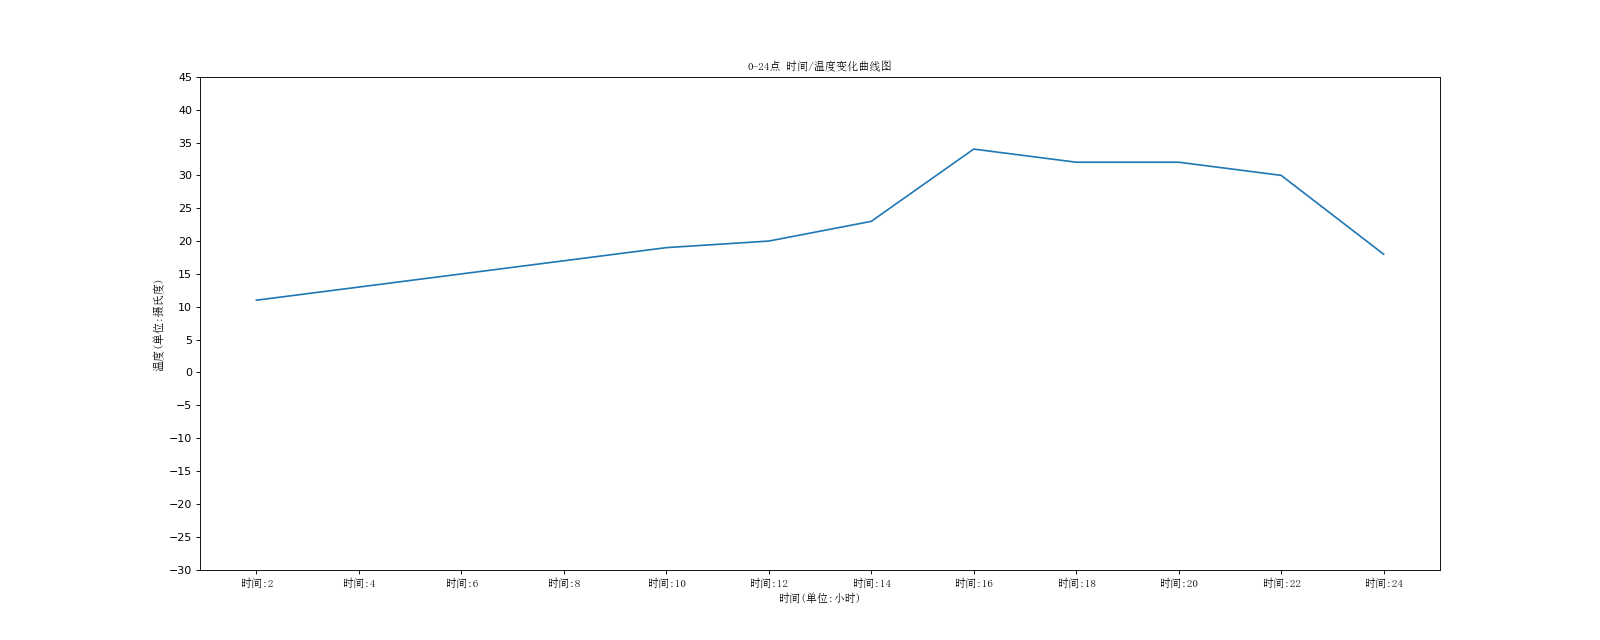
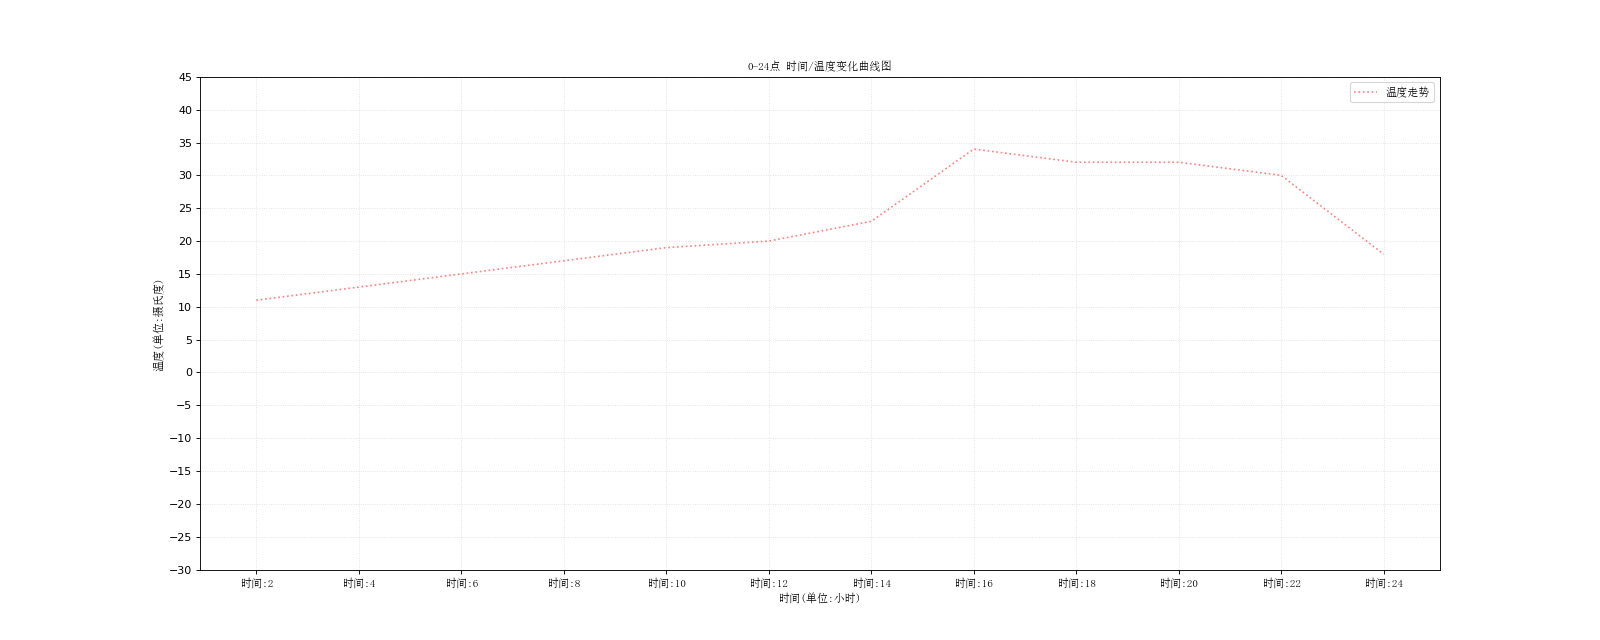
天气例子 散点图

diff --git a/mymatplotlib/MyMatplotlib.py b/mymatplotlib/MyMatplotlib.py
@@ -1,5 +1,5 @@
 from matplotlib import font_manager, pyplot as plt
-
+import numpy as np
 
 class MyMatplotlib:
     """
@@ -13,6 +13,7 @@ class MyMatplotlib:
     @staticmethod
     def plt_weather():
         """
+        <<折线图>>
         一天的天气变化
         y:天气参数
         x:时间
@@ -27,8 +28,8 @@ class MyMatplotlib:
         # 天气
         y = [11, 13, 15, 17, 19, 20, 23, 34, 32, 32, 30, 18]
 
-        # 画图
-        plt.plot(x, y)
+        # 画图   # 绘制网格
+        plt.plot(x, y, label="温度走势", color="red", linestyle=':', alpha=0.5)
 
         # 设置x刻度(不设置会根据相应的轴 自动设置)
         # plt.xticks(x)
@@ -38,6 +39,10 @@ class MyMatplotlib:
         # 设置y刻度(不设置会根据相应的轴 自动设置)
         plt.yticks(range(-30, 50, 5))
 
+        # 绘制网格
+        plt.grid(alpha=0.4, linestyle=":")
+        # 设置图例
+        plt.legend(loc=0, prop=my_font)
         # 添加描述信息
         # 设置title
         plt.title("0-24点 时间/温度变化曲线图", fontproperties=my_font)
@@ -51,6 +56,20 @@ class MyMatplotlib:
         # show
         plt.show()
 
+    @staticmethod
+    def weather_scatter():
+        # 利用 numpy 生成 随机数组
+        x = np.random.rand(1000)
+        y = np.random.rand(1000)
+        # 设置 散点图
+        plt.scatter(x, y)
+
+        # 保存图片
+        plt.savefig("./img/scatter.png")
+        # show
+        plt.show()
+
 
 if __name__ == '__main__':
-    MyMatplotlib.plt_weather()
+    # MyMatplotlib.plt_weather()
+    MyMatplotlib.weather_scatter()
